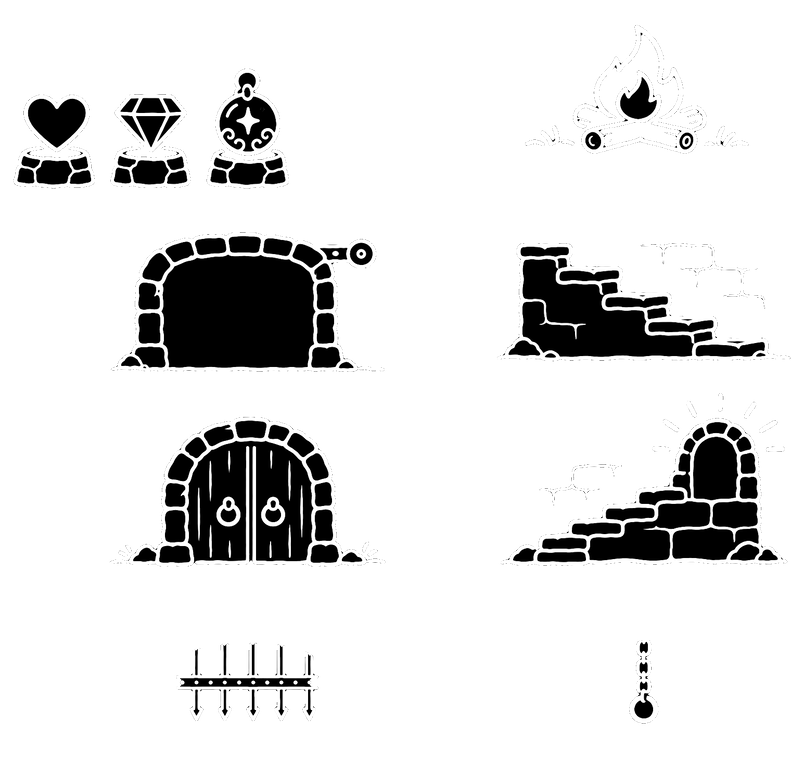
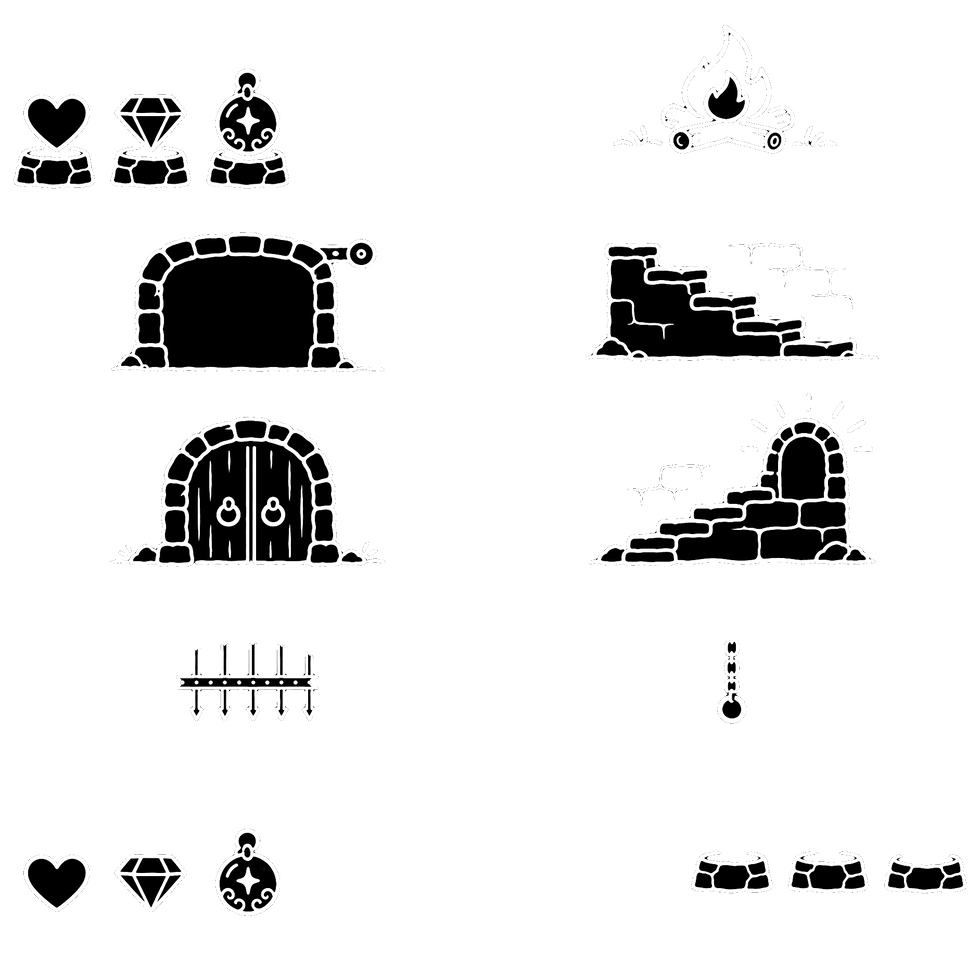
fix(view): the keepsakes are gold to the tip, and a choice's picture is the picture's own
The three keepsakes were tinted by boxes laid over the drawing: the gold
stopped at a straight line, each one's tip stayed white, and a glint that
went round lit one a different gold whichever card was picked. What lies
on the stands and the stands are drawings of their own now, each coloured
whole, and the lit one is the one the choice is on.

The picture of what the walk has stopped at was drawn on a layer over the
game's picture, above the glow and the scanlines, so it came out clean and
flat. The choices still lay it out; the layer inside the picture draws it,
with the dark behind a choice.

tools/event_shots.gd sends a story picture away, so it takes its pictures
again.

diff --git a/CHANGELOG.md b/CHANGELOG.md
@@ -55,6 +55,9 @@ All notable changes to this project are documented here. The format follows [Kee
 - The manual's attack table says when it was measured: every row and the five floor averages are 0.9.5's, re-read with `godot --headless --path . -s res://tools/sim_dodge.gd -- nosave nosound seeds=40 csv=1` (the slow bot's column at intensity 1.3), which is the command a later change to an attack can be checked with.
 
 ### Fixed
+- The keepsakes on a choice screen are gold from top to tip, and all three the same gold: they were tinted by boxes laid over the drawing, so the gold stopped at a straight line and each one's tip, which sits down inside its stand's rim, stayed white, and a glint that went from one to the next lit one of them a different gold whichever card was picked. What lies on the stands and the stands are drawings of their own now (`keepsake_things`, `keepsake_stands` in `tools/art/source/events.png`), and the one that is lit is the one the choice is on.
+- The picture of what the walk has stopped at (the keepsakes, the camp fire, the gate, the stairs, the Last Door, the way out) is part of the game's picture: it was drawn on a layer over the picture, above the glow and the scanlines, so it came out clean and flat against everything behind it. The choices still lay it out (`ChoicePopup.art`), and the layer inside the picture draws it (`Overlay.event_art`), with the dark that falls behind a choice.
+- `tools/event_shots.gd` takes its pictures again: a new run comes up under its premise's story picture, which holds the game still, so every shot was of that picture and the walk never reached what it was to stop at. The tool sends a story picture away as a key would.
 - The air lift over 2.5 kHz goes through the master's knee rather than round it, and the orchestra's round robins start over with each tune (`tools/music/build-themes.py` `master` and `build`, `orchestra.reset`): the lift was added to the finished, mastered mix, so its peaks landed past the ceiling the knee holds — fight-gumdrop's 16-bit WAV had 12 samples at full scale and read −16.50 dBFS RMS against the −17 it is mastered to, fight-tide 3 samples and −16.78, fight-splitter 6 and −16.85 — and the round robin counters belonged to the worker, so a tune came out differently depending on what that worker had built before it (two full builds of the 45 differed in 19 files, and `--only` did not write the file a full build does). The lift now goes before the loudness and the knee and every tune starts its samples from the first round robin: all 45 renders stay under the ceiling (the highest peak −1.04 dBFS), their WAVs have no sample at full scale, and two full builds are the same 45 files, as is a tune built with `--only`; a build also logs a render whose peak is over full scale instead of only clipping it away.
 - `tools/sim_strike.gd` says the width of the heavy mark the game draws (#295 read back): its header said 231 ms of the usual bar and its per-hit rows the usual bar's 115.5 ms edge, the numbers `HEAVY_BAR_SCALE` 0.6 drew, where the tool prints 192 and 96; and `tools/features_test.gd`'s ordinary-hand row checks the snake beside the bandit and the dragon, so every species its comment says that hand is behind is read, not only the two the playtest named.
 - A line to a dragon that misses the Burrow's question no longer spends the fight's one SAY (#287): the log says to ask it plainly and SAY stays open, which a champion you can't run from needed; any question about slimes now counts, the fight menu's SAY says what to ask, and Jev is asked whether the line asks it in any wording.

diff --git a/docs/DEVELOPMENT.md b/docs/DEVELOPMENT.md
@@ -116,7 +116,7 @@ godot --headless --path . --import                  # a new PNG needs importing;
 Two sheets were drawn outside that pipeline (ChatGPT's image tool, from the prompt and the reference sheets a playtester was given) and touched up by hand before they went into `tools/art/source/`: `lords.png`, the four clan lords, and `events.png`, the pictures the choice screens show.
 
 - **A lord is a still**: a figure made from one drawing. Its entry in `sheets.json` names the sheet and the cell (`"still"`), and `process.py` bends that drawing into the six frames of an `idle`: the body rises off its feet with a breath, `moves` shift a part with it (`bob`, `sway`, `lean`, `pump`, `grow`), `eyes` are squashed flat for a blink and `brows` lifted for a face with no eyes to shut. `fill` dims the inside of a filled-in shape (a beard, a pale belly), which the figure shader would otherwise light like a lamp. The rects are in the source cell's pixels. A still has no other action, so the game hops and flinches it in code, as it does for a blank face.
-- **`events.png`** has a drawing for each name in `Vignette.KNOWN`, and the gate's bars and chain as drawings of their own so they can move. `src/view/vignette.gd` holds where the moving and coloured parts are, as shares of each drawing's ink: a redrawn picture needs them measured again (`art_test` checks they still lie inside it).
+- **`events.png`** has a drawing for each name in `Vignette.KNOWN`, and the gate's bars and chain as drawings of their own so they can move. The keepsakes' three things and their three stands are drawings of their own too (`keepsake_things`, `keepsake_stands`), so each is coloured whole: a thing's tip sits down inside its stand's rim, and a box laid over the drawing cut the gold off there. These pictures are drawn by the layer inside the picture (`Overlay.event_art`, laid out by `view/choice_popup.gd`), so the glow, the scanlines and the picture's pixels are theirs. `src/view/vignette.gd` holds where the moving and coloured parts are, as shares of each drawing's ink: a redrawn picture needs them measured again (`art_test` checks they still lie inside it).
 
 ### The story CGs
 

diff --git a/docs/ART.md b/docs/ART.md
@@ -106,7 +106,7 @@
 
 领主比同族的怪物高，站在自己族的大厅尽头，仍然染成金色。胡子和蛇肚子是涂满的白色，图集里把内部调暗、只留亮边，否则发光会把它变成一盏灯。
 
-停下来做选择时画面中间的小图（纪念品、营火、闸门、楼梯、最后的门、出口）原来是代码画的直线，现在也是手绘的（`tools/art/source/events.png`），由 `src/view/vignette.gd` 让其中一部分动起来：闸门的栅栏下沉又被链子拉起，火苗摇晃，光点在三件纪念品之间移动，出口的光一明一暗。
+停下来做选择时画面中间的小图（纪念品、营火、闸门、楼梯、最后的门、出口）原来是代码画的直线，现在也是手绘的（`tools/art/source/events.png`），由 `src/view/vignette.gd` 让其中一部分动起来：闸门的栅栏下沉又被链子拉起，火苗摇晃，光点在三件纪念品之间移动，出口的光一明一暗。 这些小图画在游戏画面里面（`Overlay.event_art`），所以和场景一样有辉光、扫描线和像素感，不再是盖在滤镜上面的一张干净的图；纪念品和底座是各自的图层（`keepsake_things`、`keepsake_stands`），三件纪念品从头到尖都是同一种金色，光标在哪张卡，哪一件就亮。
 
 ![B1F 到 B5F 新加的 21 种怪物，各自的颜色](art/kinds.png)
 
